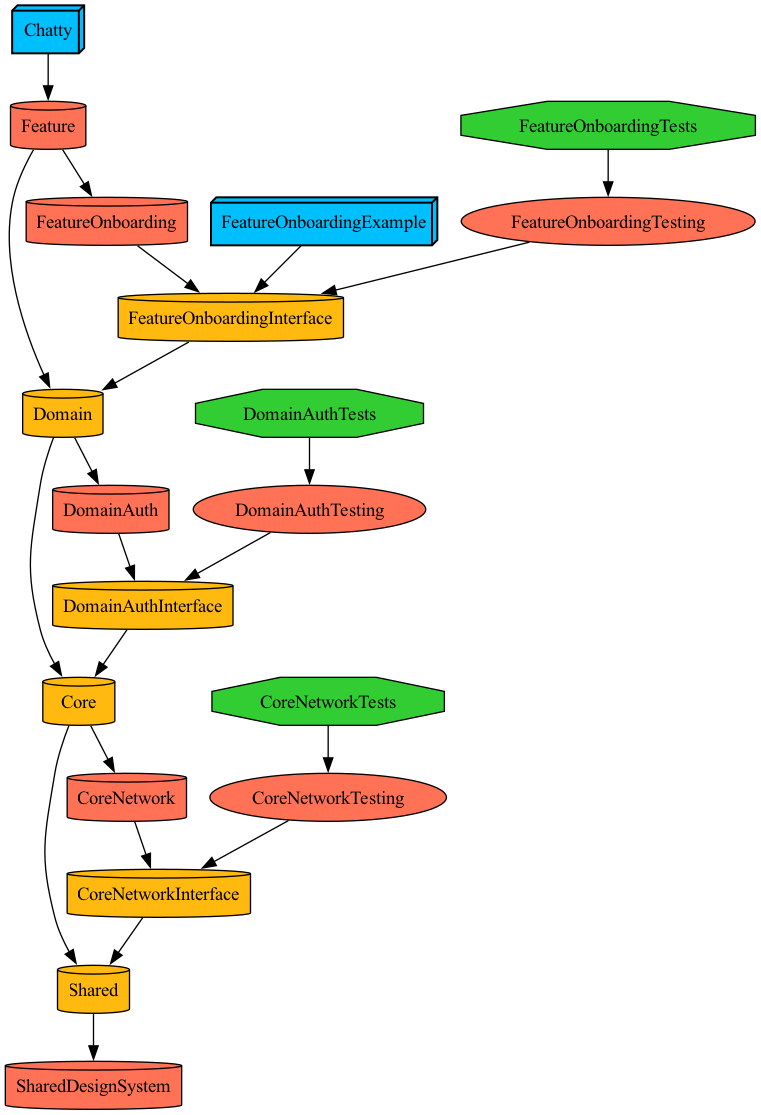
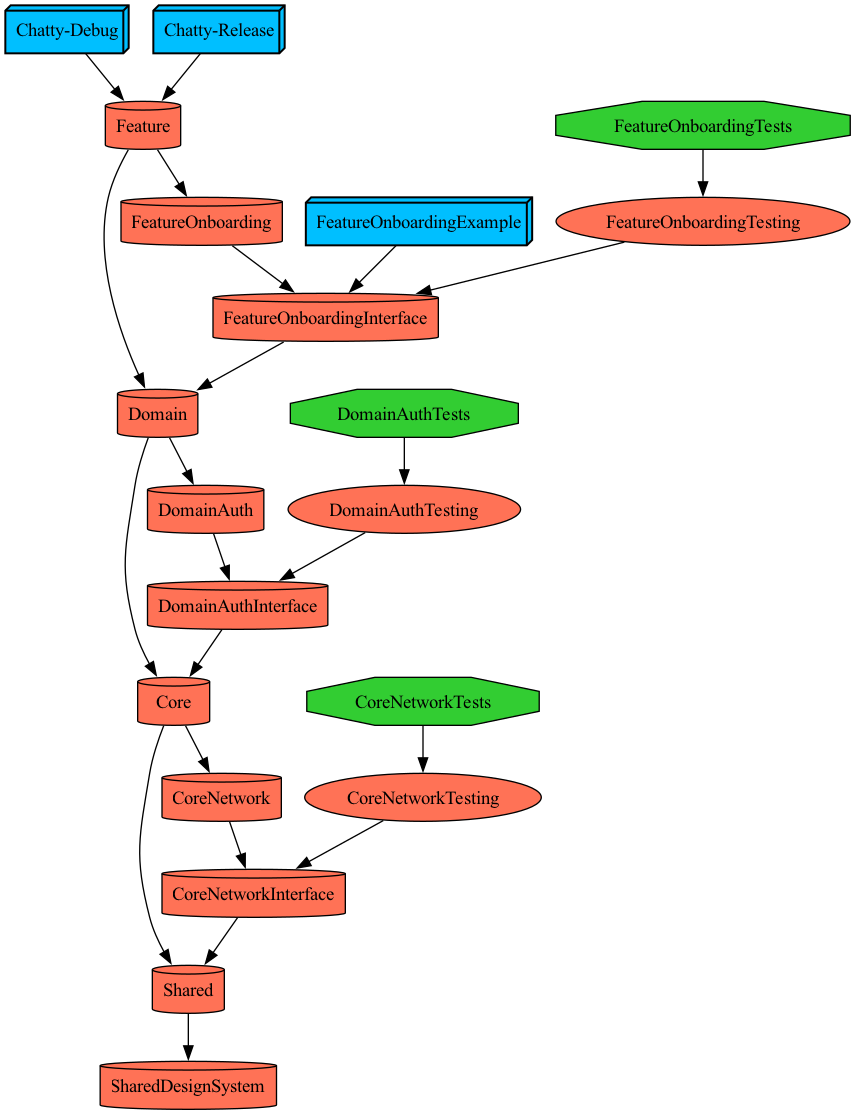
CI/CD: testflight 빌드, 배포 자동화
빌드 및 배포에 소요되는 시간 단축

Changed region(s): [[0.0, 0.0, 0.9974, 1.0], [0.9671, 0.0915, 0.9974, 0.122], [0.0302, 0.4879, 0.0604, 0.5184]]

diff --git a/Tuist/ProjectDescriptionHelpers/Target+Templates.swift b/Tuist/ProjectDescriptionHelpers/Target+Templates.swift
@@ -10,12 +10,49 @@ import DependencyPlugin
 
 // MARK: Target + Template
 
+public enum AppConfiguration {
+  case debug
+  case qa
+  case release
+  
+  var name: String {
+    switch self {
+    case .debug: "Debug"
+    case .qa: "QA"
+    case .release: "Release"
+    }
+  }
+  
+  var bundleIdSuffix: String {
+    switch self {
+    case .debug: ".debug"
+    case .qa: ".qa"
+    case .release: ""
+    }
+  }
+  
+  var xcconfigPath: Path {
+    return "./config/chatty.\(self.name.lowercased()).xcconfig"
+  }
+  
+  var configuration: Configuration {
+    switch self {
+    case .debug:
+      return .debug(name: .debug, xcconfig: self.xcconfigPath)
+    case .qa:
+      return .debug(name: "QA", xcconfig: self.xcconfigPath)
+    case .release:
+      return .release(name: .release, xcconfig: self.xcconfigPath)
+    }
+  }
+}
+
 public struct TargetFactory {
   var name: String
   var platform: Platform
   var product: Product
   var productName: String?
-  var bundleId: String?
+  var bundleId: String
   var deploymentTarget: DeploymentTarget?
   var infoPlist: InfoPlist?
   var sources: SourceFilesList?
@@ -36,7 +73,7 @@ public struct TargetFactory {
     platform: Platform = .iOS,
     product: Product = .staticLibrary,
     productName: String? = nil,
-    bundleId: String? = nil,
+    bundleId: String = Project.Environment.bundleIdPrefix,
     deploymentTarget: DeploymentTarget? = nil,
     infoPlist: InfoPlist? = .default,
     sources: SourceFilesList? = .sources,
@@ -80,7 +117,7 @@ public extension Target {
       platform: factory.platform,
       product: factory.product,
       productName: factory.productName,
-      bundleId: factory.bundleId ?? Project.Environment.bundlePrefix + ".\(factory.name)",
+      bundleId: factory.bundleId,
       deploymentTarget: factory.deploymentTarget,
       infoPlist: factory.infoPlist,
       sources: factory.sources,
@@ -102,7 +139,7 @@ public extension Target {
 // MARK: Target + App
 
 public extension Target {
-  static func app(implements module: ModulePath.App, factory: TargetFactory) -> Self {
+  static func app(implements module: ModulePath.App, configuration: AppConfiguration, factory: TargetFactory) -> Self {
     var newFactory = factory
     newFactory.name = ModulePath.App.name + module.rawValue
     
@@ -110,11 +147,12 @@ public extension Target {
     case .IOS:
       newFactory.platform = .iOS
       newFactory.product = .app
-      newFactory.name = Project.Environment.appName
-      newFactory.bundleId = Project.Environment.bundlePrefix
+      newFactory.name = "\(Project.Environment.appName)-\(configuration.name)"
+      newFactory.productName = "\(Project.Environment.appName)_\(configuration.name)"
+      newFactory.bundleId = Project.Environment.bundleIdPrefix + configuration.bundleIdSuffix
       newFactory.sources = ["Sources/**"]
       newFactory.resources = ["Resources/**"]
-      newFactory.productName = "Chatty"
+      newFactory.settings = .settings(configurations: [configuration.configuration])
     }
     return make(factory: newFactory)
   }
@@ -129,6 +167,7 @@ public extension Target {
     var newFactory = factory
     newFactory.name = ModulePath.Feature.name
     newFactory.product = .staticFramework
+    newFactory.bundleId = Project.Environment.bundleIdPrefix + ModulePath.Feature.name
     
     return make(factory: newFactory)
   }
@@ -137,6 +176,7 @@ public extension Target {
     var newFactory = factory
     newFactory.name = ModulePath.Feature.name + module.rawValue
     newFactory.product = .staticFramework
+    newFactory.bundleId = Project.Environment.bundleIdPrefix + ModulePath.Feature.name + module.rawValue
     
     return make(factory: newFactory)
   }
@@ -162,7 +202,8 @@ public extension Target {
     var newFactory = factory
     newFactory.name = ModulePath.Feature.name + module.rawValue + "Interface"
     newFactory.sources = .interface
-    newFactory.product = .framework
+    newFactory.product = .staticFramework
+    newFactory.bundleId = Project.Environment.bundleIdPrefix + ModulePath.Feature.name + module.rawValue + "Interface"
     
     return make(factory: newFactory)
   }
@@ -183,7 +224,8 @@ public extension Target {
   static func domain(factory: TargetFactory) -> Self {
     var newFactory = factory
     newFactory.name = ModulePath.Domain.name
-    newFactory.product = .framework
+    newFactory.product = .staticFramework
+    newFactory.bundleId = Project.Environment.bundleIdPrefix + ModulePath.Domain.name
     
     return make(factory: newFactory)
   }
@@ -192,6 +234,7 @@ public extension Target {
     var newFactory = factory
     newFactory.name = ModulePath.Domain.name + module.rawValue
     newFactory.product = .staticFramework
+    newFactory.bundleId = Project.Environment.bundleIdPrefix + ModulePath.Domain.name + module.rawValue
     
     return make(factory: newFactory)
   }
@@ -217,7 +260,8 @@ public extension Target {
     var newFactory = factory
     newFactory.name = ModulePath.Domain.name + module.rawValue + "Interface"
     newFactory.sources = .interface
-    newFactory.product = .framework
+    newFactory.product = .staticFramework
+    newFactory.bundleId = Project.Environment.bundleIdPrefix + ModulePath.Domain.name + module.rawValue + "Interface"
     
     return make(factory: newFactory)
   }
@@ -230,6 +274,7 @@ public extension Target {
     var newFactory = factory
     newFactory.name = ModulePath.Core.name
     newFactory.product = .framework
+    newFactory.bundleId = Project.Environment.bundleIdPrefix + ModulePath.Core.name
     
     return make(factory: newFactory)
   }
@@ -237,7 +282,8 @@ public extension Target {
   static func core(implements module: ModulePath.Core, factory: TargetFactory) -> Self {
     var newFactory = factory
     newFactory.name = ModulePath.Core.name + module.rawValue
-    newFactory.product = .staticFramework
+    newFactory.product = .framework
+    newFactory.bundleId = Project.Environment.bundleIdPrefix + ModulePath.Core.name + module.rawValue
     
     return make(factory: newFactory)
   }
@@ -264,6 +310,7 @@ public extension Target {
     newFactory.name = ModulePath.Core.name + module.rawValue + "Interface"
     newFactory.sources = .interface
     newFactory.product = .framework
+    newFactory.bundleId = Project.Environment.bundleIdPrefix + ModulePath.Core.name + module.rawValue + "Interface"
     
     return make(factory: newFactory)
   }
@@ -276,6 +323,7 @@ public extension Target {
     var newFactory = factory
     newFactory.name = ModulePath.Shared.name
     newFactory.product = .framework
+    newFactory.bundleId = Project.Environment.bundleIdPrefix + ModulePath.Shared.name
     
     return make(factory: newFactory)
   }
@@ -283,11 +331,12 @@ public extension Target {
   static func shared(implements module: ModulePath.Shared, factory: TargetFactory) -> Self {
     var newFactory = factory
     newFactory.name = ModulePath.Shared.name + module.rawValue
+    newFactory.bundleId = Project.Environment.bundleIdPrefix + ModulePath.Shared.name + module.rawValue
     
     if module == .DesignSystem {
       newFactory.sources = .sources
       newFactory.resources = ["Resources/**"]
-      newFactory.product = .staticFramework
+      newFactory.product = .framework
     }
     
     return make(factory: newFactory)

diff --git a/Projects/App/Project.swift b/Projects/App/Project.swift
@@ -10,8 +10,9 @@ import ProjectDescriptionHelpers
 import DependencyPlugin
 
 let infoPlist: [String: Plist.Value] = [
-    "CFBundleShortVersionString": "0.1.0",
-    "CFBundleVersion": "1",
+    "CFBundleShortVersionString": "1.0",
+    "CFBundleVersion": "1.0.0",
+    "CFBundleName": "Chatty",
     "CFBundleIconName": "AppIcon",
     "UIMainStoryboardFile": "",
     "UILaunchStoryboardName": "LaunchScreen",
@@ -31,11 +32,19 @@ let infoPlist: [String: Plist.Value] = [
 let targets: [Target] = [
   .app(
     implements: .IOS,
+    configuration: .debug,
     factory: .init(
       infoPlist: .extendingDefault(with: infoPlist),
-      sources: ["Sources/**"],
-      resources: ["Resources/**"],
-      entitlements: "Chatty.entitlements",
+      dependencies: [
+        .feature
+      ]
+    )
+  ),
+  .app(
+    implements: .IOS,
+    configuration: .release,
+    factory: .init(
+      infoPlist: .extendingDefault(with: infoPlist),
       dependencies: [
         .feature
       ]
@@ -45,12 +54,5 @@ let targets: [Target] = [
 
 let project: Project = .makeModule(
   name: "Chatty",
-  targets: targets,
-  settings: .settings(
-    configurations: [
-      .debug(name: .debug),
-      .debug(name: "QA"),
-      .release(name: .release)
-    ]
-  )
+  targets: targets
 )

diff --git a/Workspace.swift b/Workspace.swift
@@ -3,5 +3,24 @@ import DependencyPlugin
 
 let workspace = Workspace(
   name: "Chatty",
-  projects: ["Projects/App"]
+  projects: ["Projects/*"],
+  schemes: [
+      Scheme(
+        name: "Chatty-Release",
+        buildAction: .buildAction(targets: [.project(path: "Projects/App", target: "Chatty-Release")]),
+        runAction: .runAction(configuration: .release),
+        archiveAction: .archiveAction(configuration: .release),
+        profileAction: .profileAction(configuration: .release),
+        analyzeAction: .analyzeAction(configuration: .release)
+      ),
+      Scheme(
+        name: "Chatty-Debug",
+        buildAction: .buildAction(targets: [.project(path: "Projects/App", target: "Chatty-Debug")]),
+        runAction: .runAction(configuration: .debug),
+        archiveAction: .archiveAction(configuration: .debug),
+        profileAction: .profileAction(configuration: .debug),
+        analyzeAction: .analyzeAction(configuration: .debug)
+      )
+    ],
+    generationOptions: .options(autogeneratedWorkspaceSchemes: .disabled)
 )

diff --git a/Tuist/ProjectDescriptionHelpers/Project+Templates.swift b/Tuist/ProjectDescriptionHelpers/Project+Templates.swift
@@ -7,7 +7,12 @@ public extension Project {
     let organizationName: String? = nil
     let options: Project.Options = .options()
     let packages: [Package] = []
-    let settings: Settings? = nil
+    let settings: Settings? = .settings(
+      configurations: [
+        .debug(name: .debug),
+        .release(name: .release)
+      ]
+    )
     let targets: [Target] = targets
     let schemes: [Scheme] = []
     let fileHeaderTemplate: FileHeaderTemplate? = nil

diff --git a/Plugins/DependencyPlugin/ProjectDescriptionHelpers/Project+Envionment.swift b/Plugins/DependencyPlugin/ProjectDescriptionHelpers/Project+Envionment.swift
@@ -12,6 +12,6 @@ public extension Project {
   enum Environment {
     public static let appName = "Chatty"
     public static let deploymentTarget = DeploymentTarget.iOS(targetVersion: "16.0", devices: [.iphone])
-    public static let bundlePrefix = "org.chattylab.chatty"
+    public static let bundleIdPrefix = "org.chattylab.chatty"
   }
 }

diff --git a/Tuist/Dependencies.swift b/Tuist/Dependencies.swift
@@ -17,7 +17,6 @@ let SPM = SwiftPackageManagerDependencies(
   ,baseSettings: .settings(
     configurations: [
       .debug(name: .debug),
-      .debug(name: "QA"),
       .release(name: .release)
     ]
   )

diff --git a/fastlane/README.md b/fastlane/README.md
@@ -1,0 +1,40 @@
+fastlane documentation
+----
+
+# Installation
+
+Make sure you have the latest version of the Xcode command line tools installed:
+
+```sh
+xcode-select --install
+```
+
+For _fastlane_ installation instructions, see [Installing _fastlane_](https://docs.fastlane.tools/#installing-fastlane)
+
+# Available Actions
+
+## iOS
+
+### ios set_keychain
+
+```sh
+[bundle exec] fastlane ios set_keychain
+```
+
+Save To Keychain
+
+### ios tf
+
+```sh
+[bundle exec] fastlane ios tf
+```
+
+Push to TestFlight
+
+----
+
+This README.md is auto-generated and will be re-generated every time [_fastlane_](https://fastlane.tools) is run.
+
+More information about _fastlane_ can be found on [fastlane.tools](https://fastlane.tools).
+
+The documentation of _fastlane_ can be found on [docs.fastlane.tools](https://docs.fastlane.tools).

diff --git a/.github/pull_request_template.md b/.github/pull_request_template.md
@@ -1,0 +1,15 @@
+## What is this PR? 🔍
+
+-
+
+<br>
+
+## Key Changes 🔑
+
+-
+
+<br>
+
+## To Reviewrs 🙏🏻
+
+-
